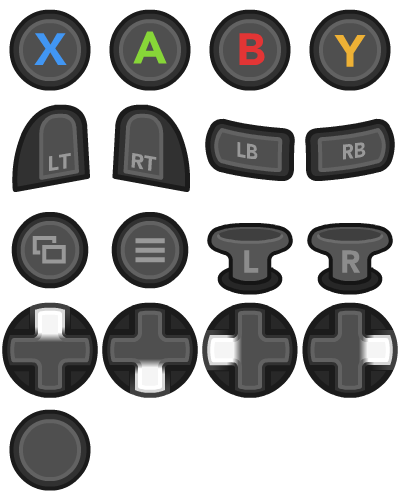
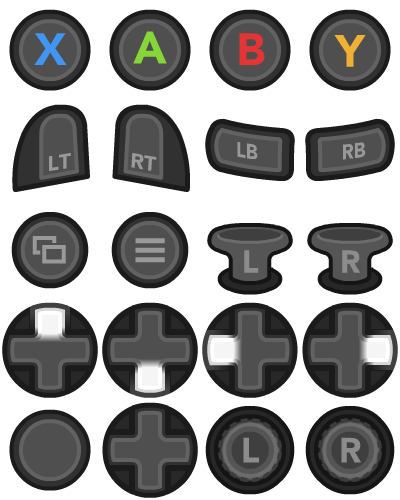
Round out input prompt sprites and add a general `SpriteMap`.
Includes (in the binary changes) some individual sprites that aren't useful for key bindings but are going to be useful for positioning prompts - stick motion, unpressed d-pad, and mouse buttons.

Also adds arrows which are very helpful for suggesting a drag motion (vanilla cursor arrows look too much like navigation), and a `SpriteMap` as a convenient way to build the model for those arrows and probably many other texture atlases in the future.

Changed region(s): [[0.24, 0.78, 0.99, 1.0]]

diff --git a/src/SpriteMap.cs b/src/SpriteMap.cs
@@ -1,0 +1,304 @@
+using Microsoft.Xna.Framework;
+using Microsoft.Xna.Framework.Graphics;
+using StardewValley;
+
+namespace StardewUI;
+
+/// <summary>
+/// General implementation of an <see cref="ISpriteMap{T}"/> that can be prepared in a variety of ways.
+/// </summary>
+/// <remarks>
+/// Can be constructed directly, but it is normally recommended to use <see cref="SpriteMapBuilder{T}"/>. Applies basic
+/// placeholder logic that considers only the <paramref name="defaultSprite"/> to be a placeholder.
+/// </remarks>
+/// <typeparam name="T">Type of key for which to obtain sprites.</typeparam>
+/// <param name="sprites">Map of keys to sprites.</param>
+/// <param name="defaultSprite">Default sprite to show when looking up a key without a corresponding sprite.</param>
+public class SpriteMap<T>(IReadOnlyDictionary<T, Sprite> sprites, Sprite defaultSprite) : ISpriteMap<T>
+{
+    public Sprite Get(T key, out bool isPlaceholder)
+    {
+        if (sprites.TryGetValue(key, out var sprite))
+        {
+            isPlaceholder = false;
+            return sprite;
+        }
+        isPlaceholder = true;
+        return defaultSprite;
+    }
+}
+
+/// <summary>
+/// Builder interface for a <see cref="SpriteMap{T}"/> using a single texture source.
+/// </summary>
+/// <remarks>
+/// Works by maintaining a virtual "cursor" which can be moved to capture the next sprite, and adding either one sprite
+/// at a time with a specific size, or several with the same size, wrapping around when necessary.
+/// </remarks>
+/// <typeparam name="T">Type of key for which to obtain sprites.</typeparam>
+public class SpriteMapBuilder<T>(Texture2D texture)
+    where T : notnull
+{
+    private readonly Dictionary<T, Sprite> sprites = [];
+
+    private int cursorX;
+    private int cursorY;
+    private Sprite defaultSprite = new(Game1.staminaRect);
+    private int paddingX;
+    private int paddingY;
+    private int spriteHeight;
+    private int spriteWidth;
+
+    /// <summary>
+    /// Adds a single sprite.
+    /// </summary>
+    /// <param name="key">The key for the sprite.</param>
+    /// <param name="width">Optional override width, otherwise the most recent <see cref="Size"/> will be used. Custom
+    /// widths only apply to this sprite and will <b>not</b> affect the size of any subsequent additions.</param>
+    /// <param name="height">Optional override height, otherwise the most recent <see cref="Size"/> will be used. Custom
+    /// heights only apply to this sprite and will <b>not</b> affect the size of any subsequent additions.</param>
+    /// <returns>The current builder instance.</returns>
+    /// <exception cref="ArgumentException">Thrown when the combination of current position and current or overridden
+    /// width and height would place the sprite outside the texture bounds.</exception>
+    public SpriteMapBuilder<T> Add(T key, int? width = null, int? height = null)
+    {
+        return Add(key, new Rectangle(cursorX, cursorY, width ?? spriteWidth, height ?? spriteHeight));
+    }
+
+    /// <summary>
+    /// Adds a sprite using its specific position and size in the texture.
+    /// </summary>
+    /// <remarks>
+    /// After adding, moves the cursor to the top-right of the <paramref name="sourceRect"/>, unless it would be
+    /// horizontally out of bounds, in which case it wraps to the beginning (X = 0) of the next row.
+    /// </remarks>
+    /// <param name="key">The key for the sprite.</param>
+    /// <param name="sourceRect">The exact position and size of the sprite.</param>
+    /// <returns>The current builder instance.</returns>
+    /// <exception cref="ArgumentException">Thrown when <paramref name="sourceRect"/> is not fully within the boundaries
+    /// of the source texture.</exception>
+    public SpriteMapBuilder<T> Add(T key, Rectangle sourceRect)
+    {
+        if (sourceRect.Width <= 0)
+        {
+            throw new ArgumentOutOfRangeException(
+                nameof(sourceRect),
+                $"Rectangle {sourceRect} has invalid zero or negative width."
+            );
+        }
+        if (sourceRect.Height <= 0)
+        {
+            throw new ArgumentOutOfRangeException(
+                nameof(sourceRect),
+                $"Rectangle {sourceRect} has invalid zero or negative height."
+            );
+        }
+        if (!IsInBounds(sourceRect))
+        {
+            throw new ArgumentException(
+                $"Rectangle {sourceRect} is outside the texture bounds ({texture.Width}, {texture.Height}).",
+                nameof(sourceRect)
+            );
+        }
+        sprites.Add(key, new(texture, sourceRect));
+        cursorX = sourceRect.Right + paddingX;
+        cursorY = sourceRect.Top;
+        if (cursorX >= texture.Width)
+        {
+            cursorX = 0;
+            cursorY += sourceRect.Height + paddingY;
+        }
+        return this;
+    }
+
+    /// <summary>
+    /// Adds a sequence of sprites, starting from the current cursor position and using the most recently configured
+    /// <see cref="Size"/> and <see cref="Padding"/> to advance the cursor after each element.
+    /// </summary>
+    /// <remarks>
+    /// Wraps to the beginning of the next row (X = 0) when the end of a row is reached.
+    /// </remarks>
+    /// <param name="keys">The keys for the sprites to add, in the same left-to-right order that they appear in the
+    /// source texture.</param>
+    /// <returns>The current builder instance.</returns>
+    /// <exception cref="ArgumentException">Thrown if the bottom-right boundary of the source texture is reached and
+    /// there are still elements remaining to be added.</exception>
+    public SpriteMapBuilder<T> Add(IEnumerable<T> keys)
+    {
+        foreach (var key in keys)
+        {
+            Add(key);
+        }
+        return this;
+    }
+
+    /// <summary>
+    /// Adds a sequence of sprites, starting from the current cursor position and using the most recently configured
+    /// <see cref="Size"/> and <see cref="Padding"/> to advance the cursor after each element.
+    /// </summary>
+    /// <remarks>
+    /// Wraps to the beginning of the next row (X = 0) when the end of a row is reached.
+    /// </remarks>
+    /// <param name="keys">The keys for the sprites to add, in the same left-to-right order that they appear in the
+    /// source texture.</param>
+    /// <returns>The current builder instance.</returns>
+    /// <exception cref="ArgumentException">Thrown if the bottom-right boundary of the source texture is reached and
+    /// there are still elements remaining to be added.</exception>
+    public SpriteMapBuilder<T> Add(params T[] keys)
+    {
+        return Add(keys.AsEnumerable());
+    }
+
+    /// <summary>
+    /// Builds a new <see cref="SpriteMap{T}"/> from the registered sprites.
+    /// </summary>
+    public SpriteMap<T> Build()
+    {
+        return new(sprites, defaultSprite);
+    }
+
+    /// <summary>
+    /// Configures the default sprite for unknown keys to use an existing sprite that has already been registered.
+    /// </summary>
+    /// <param name="key">Key of the previously-added sprite to use as default.</param>
+    /// <returns>The current builder instance.</returns>
+    public SpriteMapBuilder<T> Default(T key)
+    {
+        defaultSprite = sprites[key];
+        return this;
+    }
+
+    /// <summary>
+    /// Configures the default sprite for unknown keys to use a custom sprite.
+    /// </summary>
+    /// <param name="sprite">The sprite to use as default.</param>
+    /// <returns>The current builder instance.</returns>
+    public SpriteMapBuilder<T> Default(Sprite sprite)
+    {
+        defaultSprite = sprite;
+        return this;
+    }
+
+    /// <summary>
+    /// Moves the current cursor position by a specified offset.
+    /// </summary>
+    /// <param name="x">Horizontal offset from current position.</param>
+    /// <param name="y">Vertical offset from current position.</param>
+    /// <returns>The current builder instance.</returns>
+    public SpriteMapBuilder<T> MoveBy(int x, int y)
+    {
+        cursorX += x;
+        cursorY += y;
+        return this;
+    }
+
+    /// <summary>
+    /// Moves the current cursor position by a specified offset.
+    /// </summary>
+    /// <param name="p">The horizontal (X) and vertical (Y) offsets from the current position.</param>
+    /// <returns>The current builder instance.</returns>
+    public SpriteMapBuilder<T> MoveBy(Point p)
+    {
+        return MoveBy(p.X, p.Y);
+    }
+
+    /// <summary>
+    /// Moves the cursor to a specific coordinate.
+    /// </summary>
+    /// <remarks>
+    /// Generally used when dealing with semi-regular spritesheets having distinct areas that are individually uniform
+    /// but different from each other, e.g. a row of 10x10 placed in an empty area of a 32x32 sheet.
+    /// </remarks>
+    /// <param name="x">The new X coordinate of the cursor.</param>
+    /// <param name="y">The new Y coordinate of the cursor.</param>
+    /// <returns>The current builder instance.</returns>
+    public SpriteMapBuilder<T> MoveTo(int x, int y)
+    {
+        cursorX = x;
+        cursorY = y;
+        return this;
+    }
+
+    /// <summary>
+    /// Moves the cursor to a specific coordinate.
+    /// </summary>
+    /// <remarks>
+    /// Generally used when dealing with semi-regular spritesheets having distinct areas that are individually uniform
+    /// but different from each other, e.g. a row of 10x10 placed in an empty area of a 32x32 sheet.
+    /// </remarks>
+    /// <param name="p">The horizontal (X) and vertical (Y) coordinates for the cursor.</param>
+    /// <returns>The current builder instance.</returns>
+    public SpriteMapBuilder<T> MoveTo(Point p)
+    {
+        return MoveTo(p.X, p.Y);
+    }
+
+    /// <summary>
+    /// Configures the padding between sprites.
+    /// </summary>
+    /// <remarks>
+    /// Applies only to new sprites added afterward; will not affect sprites previously added.
+    /// </remarks>
+    /// <param name="x">Horizontal padding from the right edge of one sprite to the left edge of the next. Added
+    /// whenever advancing from left to right.</param>
+    /// <param name="y">Vertical padding from the bottom edge of one sprite to the top edge of the next. Added whenever
+    /// wrapping from the end of a row to the beginning of the next row.</param>
+    /// <returns>The current builder instance.</returns>
+    public SpriteMapBuilder<T> Padding(int x, int y)
+    {
+        paddingX = x;
+        paddingY = y;
+        return this;
+    }
+
+    /// <summary>
+    /// Configures the padding between sprites.
+    /// </summary>
+    /// <remarks>
+    /// Applies only to new sprites added afterward; will not affect sprites previously added.
+    /// </remarks>
+    /// <param name="p">A point containing the horizontal (X) and vertical (Y) padding values. See
+    /// <see cref="Padding(int, int)"/>.</param>
+    /// <returns>The current builder instance.</returns>
+    public SpriteMapBuilder<T> Padding(Point p)
+    {
+        return Padding(p.X, p.Y);
+    }
+
+    /// <summary>
+    /// Configures the pixel size per sprite.
+    /// </summary>
+    /// <remarks>
+    /// Applies only to new sprites added afterward; will not affect sprites previously added.
+    /// </remarks>
+    /// <param name="width">The pixel width for newly-added sprites.</param>
+    /// <param name="height">The pixel height for newly-added sprites.</param>
+    /// <returns>The current builder instance.</returns>
+    public SpriteMapBuilder<T> Size(int width, int height)
+    {
+        spriteWidth = width;
+        spriteHeight = height;
+        return this;
+    }
+
+    /// <summary>
+    /// Configures the pixel size per sprite.
+    /// </summary>
+    /// <remarks>
+    /// Applies only to new sprites added afterward; will not affect sprites previously added.
+    /// </remarks>
+    /// <param name="p">A point containing the width (X) and height (Y) for newly-added sprites.</param>
+    /// <returns>The current builder instance.</returns>
+    public SpriteMapBuilder<T> Size(Point p)
+    {
+        return Size(p.X, p.Y);
+    }
+
+    private bool IsInBounds(Rectangle sourceRect)
+    {
+        return sourceRect.Left >= 0
+            && sourceRect.Top >= 0
+            && sourceRect.Right <= texture.Width
+            && sourceRect.Bottom <= texture.Height;
+    }
+}

diff --git a/src/Widgets/Keybinding/XeluButtonSpriteMap.cs b/src/Widgets/Keybinding/XeluButtonSpriteMap.cs
@@ -14,7 +14,8 @@ namespace StardewUI.Widgets.Keybinding;
 /// </remarks>
 /// <param name="gamepad">Gamepad texture atlas, loaded from the mod's copy of <c>GamepadButtons.png</c>.</param>
 /// <param name="keyboard">Keyboard texture atlas, loaded from the mod's copy of <c>KeyboardKeys.png</c>.</param>
-public class XeluButtonSpriteMap(Texture2D gamepad, Texture2D keyboard) : ButtonSpriteMap
+/// <param name="mouse">Mouse texture atlas, loaded from the mod's copy of <c>MouseButtons.png</c>.</param>
+public class XeluButtonSpriteMap(Texture2D gamepad, Texture2D keyboard, Texture2D mouse) : ButtonSpriteMap
 {
     private const int COLUMN_COUNT = 4;
 
@@ -22,9 +23,15 @@ public class XeluButtonSpriteMap(Texture2D gamepad, Texture2D keyboard) : Button
     private static readonly SliceSettings SliceSettings = new(Scale: 0.32f);
     private static readonly Point SpriteSize = new(100, 100);
 
-    protected override Sprite ControllerBlank => new(gamepad, GetSourceRect(16), SliceSettings: SliceSettings);
+    protected override Sprite ControllerBlank => new(gamepad, GetSourceRect(16));
 
-    protected override Sprite KeyboardBlank => new(keyboard, GetSourceRect(2), KeyboardFixedEdges, SliceSettings);
+    protected override Sprite KeyboardBlank => new(keyboard, GetSourceRect(0), KeyboardFixedEdges);
+
+    protected override Sprite MouseLeft => new(mouse, GetSourceRect(1));
+
+    protected override Sprite MouseMiddle => new(mouse, GetSourceRect(2));
+
+    protected override Sprite MouseRight => new(mouse, GetSourceRect(3));
 
     protected override Sprite? Get(SButton button)
     {
@@ -46,6 +53,17 @@ public class XeluButtonSpriteMap(Texture2D gamepad, Texture2D keyboard) : Button
             SButton.DPadDown => 13,
             SButton.DPadLeft => 14,
             SButton.DPadRight => 15,
+            // There's no SButton for "D-pad without any pressed", so to make this sprite accessible we can use a key
+            // that should never be used for any other in-game function.
+            SButton.Sleep => 17,
+            SButton.LeftThumbstickDown
+            or SButton.LeftThumbstickLeft
+            or SButton.LeftThumbstickRight
+            or SButton.LeftThumbstickUp => 18,
+            SButton.RightThumbstickDown
+            or SButton.RightThumbstickRight
+            or SButton.RightThumbstickRight
+            or SButton.RightThumbstickUp => 19,
             _ => null,
         };
         return gamepadSpriteIndex.HasValue

diff --git a/src/Widgets/Keybinding/ButtonSpriteMap.cs b/src/Widgets/Keybinding/ButtonSpriteMap.cs
@@ -23,8 +23,35 @@ public abstract class ButtonSpriteMap : ISpriteMap<SButton>
     /// </remarks>
     protected abstract Sprite KeyboardBlank { get; }
 
+    /// <summary>
+    /// The mouse with left button pressed.
+    /// </summary>
+    protected abstract Sprite MouseLeft { get; }
+
+    /// <summary>
+    /// The mouse with middle button pressed.
+    /// </summary>
+    protected abstract Sprite MouseMiddle { get; }
+
+    /// <summary>
+    /// The mouse with right button pressed.
+    /// </summary>
+    protected abstract Sprite MouseRight { get; }
+
     public Sprite Get(SButton key, out bool isPlaceholder)
     {
+        var mouseSprite = key switch
+        {
+            SButton.MouseLeft => MouseLeft,
+            SButton.MouseMiddle => MouseMiddle,
+            SButton.MouseRight => MouseRight,
+            _ => null,
+        };
+        if (mouseSprite is not null)
+        {
+            isPlaceholder = false;
+            return mouseSprite;
+        }
         var exactSprite = Get(key);
         if (exactSprite is not null)
         {
